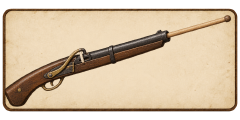
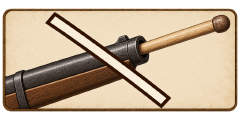
Distinguish loading with muzzle close-up and bold slash

diff --git a/素材/状态图标/v1/README.md b/素材/状态图标/v1/README.md
@@ -1,6 +1,6 @@
 # 状态图标 v1 · 交戦、指揮外、阵形、敗走与射击状态
 
-本目录提供七个状态图标；revision 22 新增射撃可与装填中，本轮仅更新美术，未修改 TTS 代码。交戦与指揮外为**暗朱红实心圆章、圆外透明**：
+本目录提供七个状态图标；**revision 23 仅更新装填中**，改为枪口与通条近景，加上象牙白、深褐描边的大斜杠，强化“装填中、不可射击”的辨识。射撃可仍为横置完整火绳枪，其余六图不变。射撃可与装填中最初于 revision 22 新增；本轮仅更新美术，未修改 TTS 代码。交戦与指揮外为**暗朱红实心圆章、圆外透明**：
 
 - **交戦 / `engaged`**：象牙色交叉太刀。revision 10 清理圆外半透明杂点，统一为加粗、清晰的规则圆边；1024 源图中心半径 465 px 内及全部象牙色刀刃、刀柄的原像素保持不变。
 - **指揮外 / `out_of_command`**：revision 12 将中间斜杠改为**象牙白＋深褐描边**，与炭灰军配及暗朱红圆底拉开对比；保留实物军配的收腰圆角形制、长柄、约 25° 倾斜、古朴哑光旧木质感与无文字处理。外圈与交戦采用相同的清晰圆边。
@@ -51,9 +51,9 @@
 
 以 1200 × 1200 棋面计，**600 × 400 仅为候选显示尺寸，尚未指定位置**。使用完整画布，不按可见轮廓重新裁切。武将遮挡、需要时的抬高处理及正反面显示由代码侧确认；图片本身不具备防遮挡能力。本轮仅提供独立图片，没有制作棋面预览，也未进行 TTS 缩远、斜视或叠放验收。
 
-## 射击状态 · 射撃可与装填中（revision 22）
+## 射击状态 · 射撃可与装填中（revision 22 新增，revision 23 更新装填中）
 
-两枚图标使用浅象牙色哑光旧纸底、深褐边的横牌，分别绘制日式种子岛火绳枪，共用相同画布、牌面外轮廓与视觉风格。所有远程兵种共用这组火绳枪状态图。**`fire_ready` / 射撃可** 为横置火绳枪；**`fire_loading` / 装填中** 抬高枪口，浅色木通条沿枪管轴线明确插入枪口，采用已确认的无手部方案。两图牌外透明，没有文字、火光或烟气。
+两枚图标使用浅象牙色哑光旧纸底、深褐边的横牌，分别绘制日式种子岛火绳枪，共用相同画布、牌面外轮廓与视觉风格。所有远程兵种共用这组火绳枪状态图。**`fire_ready` / 射撃可** 保留横置完整火绳枪。**`fire_loading` / 装填中** 在 revision 23 改为放大的枪口与浅色木通条近景，枪托及枪尾裁出画面，通条沿枪管轴线明确插入枪口；一条醒目的**象牙白、深褐描边大斜杠**沿与枪管相反的方向向右下倾斜，表示装填期间不可射击，且不遮挡通条插入枪口的连接处。装填图仍无手部，两图牌外透明，没有文字、火光或烟气。
 
 | 标识 | 文件 | 像素尺寸 | 透明留白（左 / 上 / 右 / 下） |
 | --- | --- | --- | --- |
@@ -85,13 +85,13 @@
 
 ## 代码侧交接
 
-- 本次为 **`revision: 22`**：新增 `fire_ready` / 射撃可、`fire_loading` / 装填中及各自三种规格导出。原有交戦、指揮外、密集、散開、敗走五图、十五份 PNG 及其 manifest 资产条目不变；原有显示尺寸与位置约定不变。revision 21 的敗走旗布修补保留，残破仍仅限外缘。
+- 本次为 **`revision: 23`**：仅替换 `fire_loading` / 装填中的三种规格导出，并更新对应 manifest 资产条目。`fire_ready` / 射撃可与交戦、指揮外、密集、散開、敗走共六图、十八份 PNG 及其 manifest 资产条目不变；原有显示尺寸与位置约定不变。射击状态两图由 revision 22 新增；revision 21 的敗走旗布修补保留，残破仍仅限外缘。
 - 已交付图标的固定标识为 `engaged`、`out_of_command`、`formation_close`、`formation_open`、`routed`、`fire_ready`、`fire_loading`。两圆章独立控制且允许同时显示；两阵形图共用位置，互相切换；两射击状态图互斥切换，具体位置及与阵形图的位置关系待定；敗走的位置及与其他状态的显示关系交由代码侧确认。
-- 七个 `cloud_url` 均为空。本轮首选上传 **`fire_ready.png`、`fire_loading.png`（均为 512 × 256）**，按完整画布 **240 × 120** 显示；显示尺寸导出仅供便捷使用。由代码侧配置资源链接、确认实际位置并刷新缓存后验证加载。敗走仍保留候选 600 × 400 显示尺寸且尚无指定位置。仓库图片链接不代表 TTS 资源已配置或已验证。
+- 七个 `cloud_url` 均为空。本轮需替换的首选运行纹理为 **`fire_loading.png`（512 × 256）**；`fire_ready.png` 保持原样。两图仍按完整画布 **240 × 120** 显示；显示尺寸导出仅供便捷使用。由代码侧配置资源链接、确认实际位置并刷新缓存后验证加载。敗走仍保留候选 600 × 400 显示尺寸且尚无指定位置。仓库图片链接不代表 TTS 资源已配置或已验证。
 - 本稿仅交接图片、尺寸和定位。状态如何触发、保存／恢复及清除由代码侧按已确认规则处理；这里不推测交战或指挥范围的自动判定、回合重置等逻辑。
 - 1200 棋面像素坐标需映射到实际物件坐标／UI。已有正背面渲染方式、厚度偏移及资源登记顺序请按代码侧交接保留，不能直接把本文件的像素数当作 TTS 世界坐标。
 - 实机检查应覆盖正反面、多人、缩放、倾斜和移动后的透明排序，检查单状态与双状态同时显示，并确认图标不拦截既有操作区域。
-- 射击状态的位置、切换及清除按代码侧已确认规则接入，本稿不新增玩法逻辑。装填中采用无手部、浅色木通条插入枪口的已确认构图。
+- 射击状态的位置、切换及清除按代码侧已确认规则接入，本稿不新增玩法逻辑。装填中采用无手部的枪口与通条近景，并以象牙白、深褐描边大斜杠强化状态区别。
 
 ## 基线与验证
 
@@ -99,6 +99,6 @@
 
 美术分支 `codex/art-status-icons` 从最新 `main` 的 `8c7aaa731f124eb693a23800402a65033806975f` 创建，使用独立工作目录。未合并 PR #2；本次交接仅写在此目录，公共 HANDOFF 由代码侧整合。
 
-本轮核对射撃可与装填中六份导出的尺寸、RGBA 透明通道、两种 alpha 阈值外接矩形、留白及 SHA-256，并确认三种对应尺寸的 alpha 通道逐像素相同。原有五图的十五份 PNG 和 manifest 资产条目未改；既有 96 张棋面、`tts/`、`tests/`、`tools/tts/` 及 `troop-cards-download` 分支不变。未生成或重新检查棋面预览。
+本轮重新测量装填中三份导出的尺寸、RGBA 透明通道、两种 alpha 阈值外接矩形、留白及 SHA-256，并确认与射撃可三种对应尺寸的 alpha 通道逐像素相同。相较本轮开始时的 HEAD，其余六图的十八份 PNG 字节及 manifest 资产条目完全一致；既有 96 张棋面、`tts/`、`tests/`、`tools/tts/` 及 `troop-cards-download` 分支不变。未生成总览、棋面或其他预览图。
 
-本轮未运行 Lua／MoonSharp 检查，也未进行 TTS 实机渲染、联机、缩放或斜视验收。新版图标仍待用户确认；实际显示效果需要代码侧替换纹理并刷新缓存后检查。
+本轮未运行 Lua／MoonSharp 检查，也未进行 TTS 实机渲染、联机、缩放或斜视验收。实际显示效果需要代码侧替换纹理并刷新缓存后检查。
